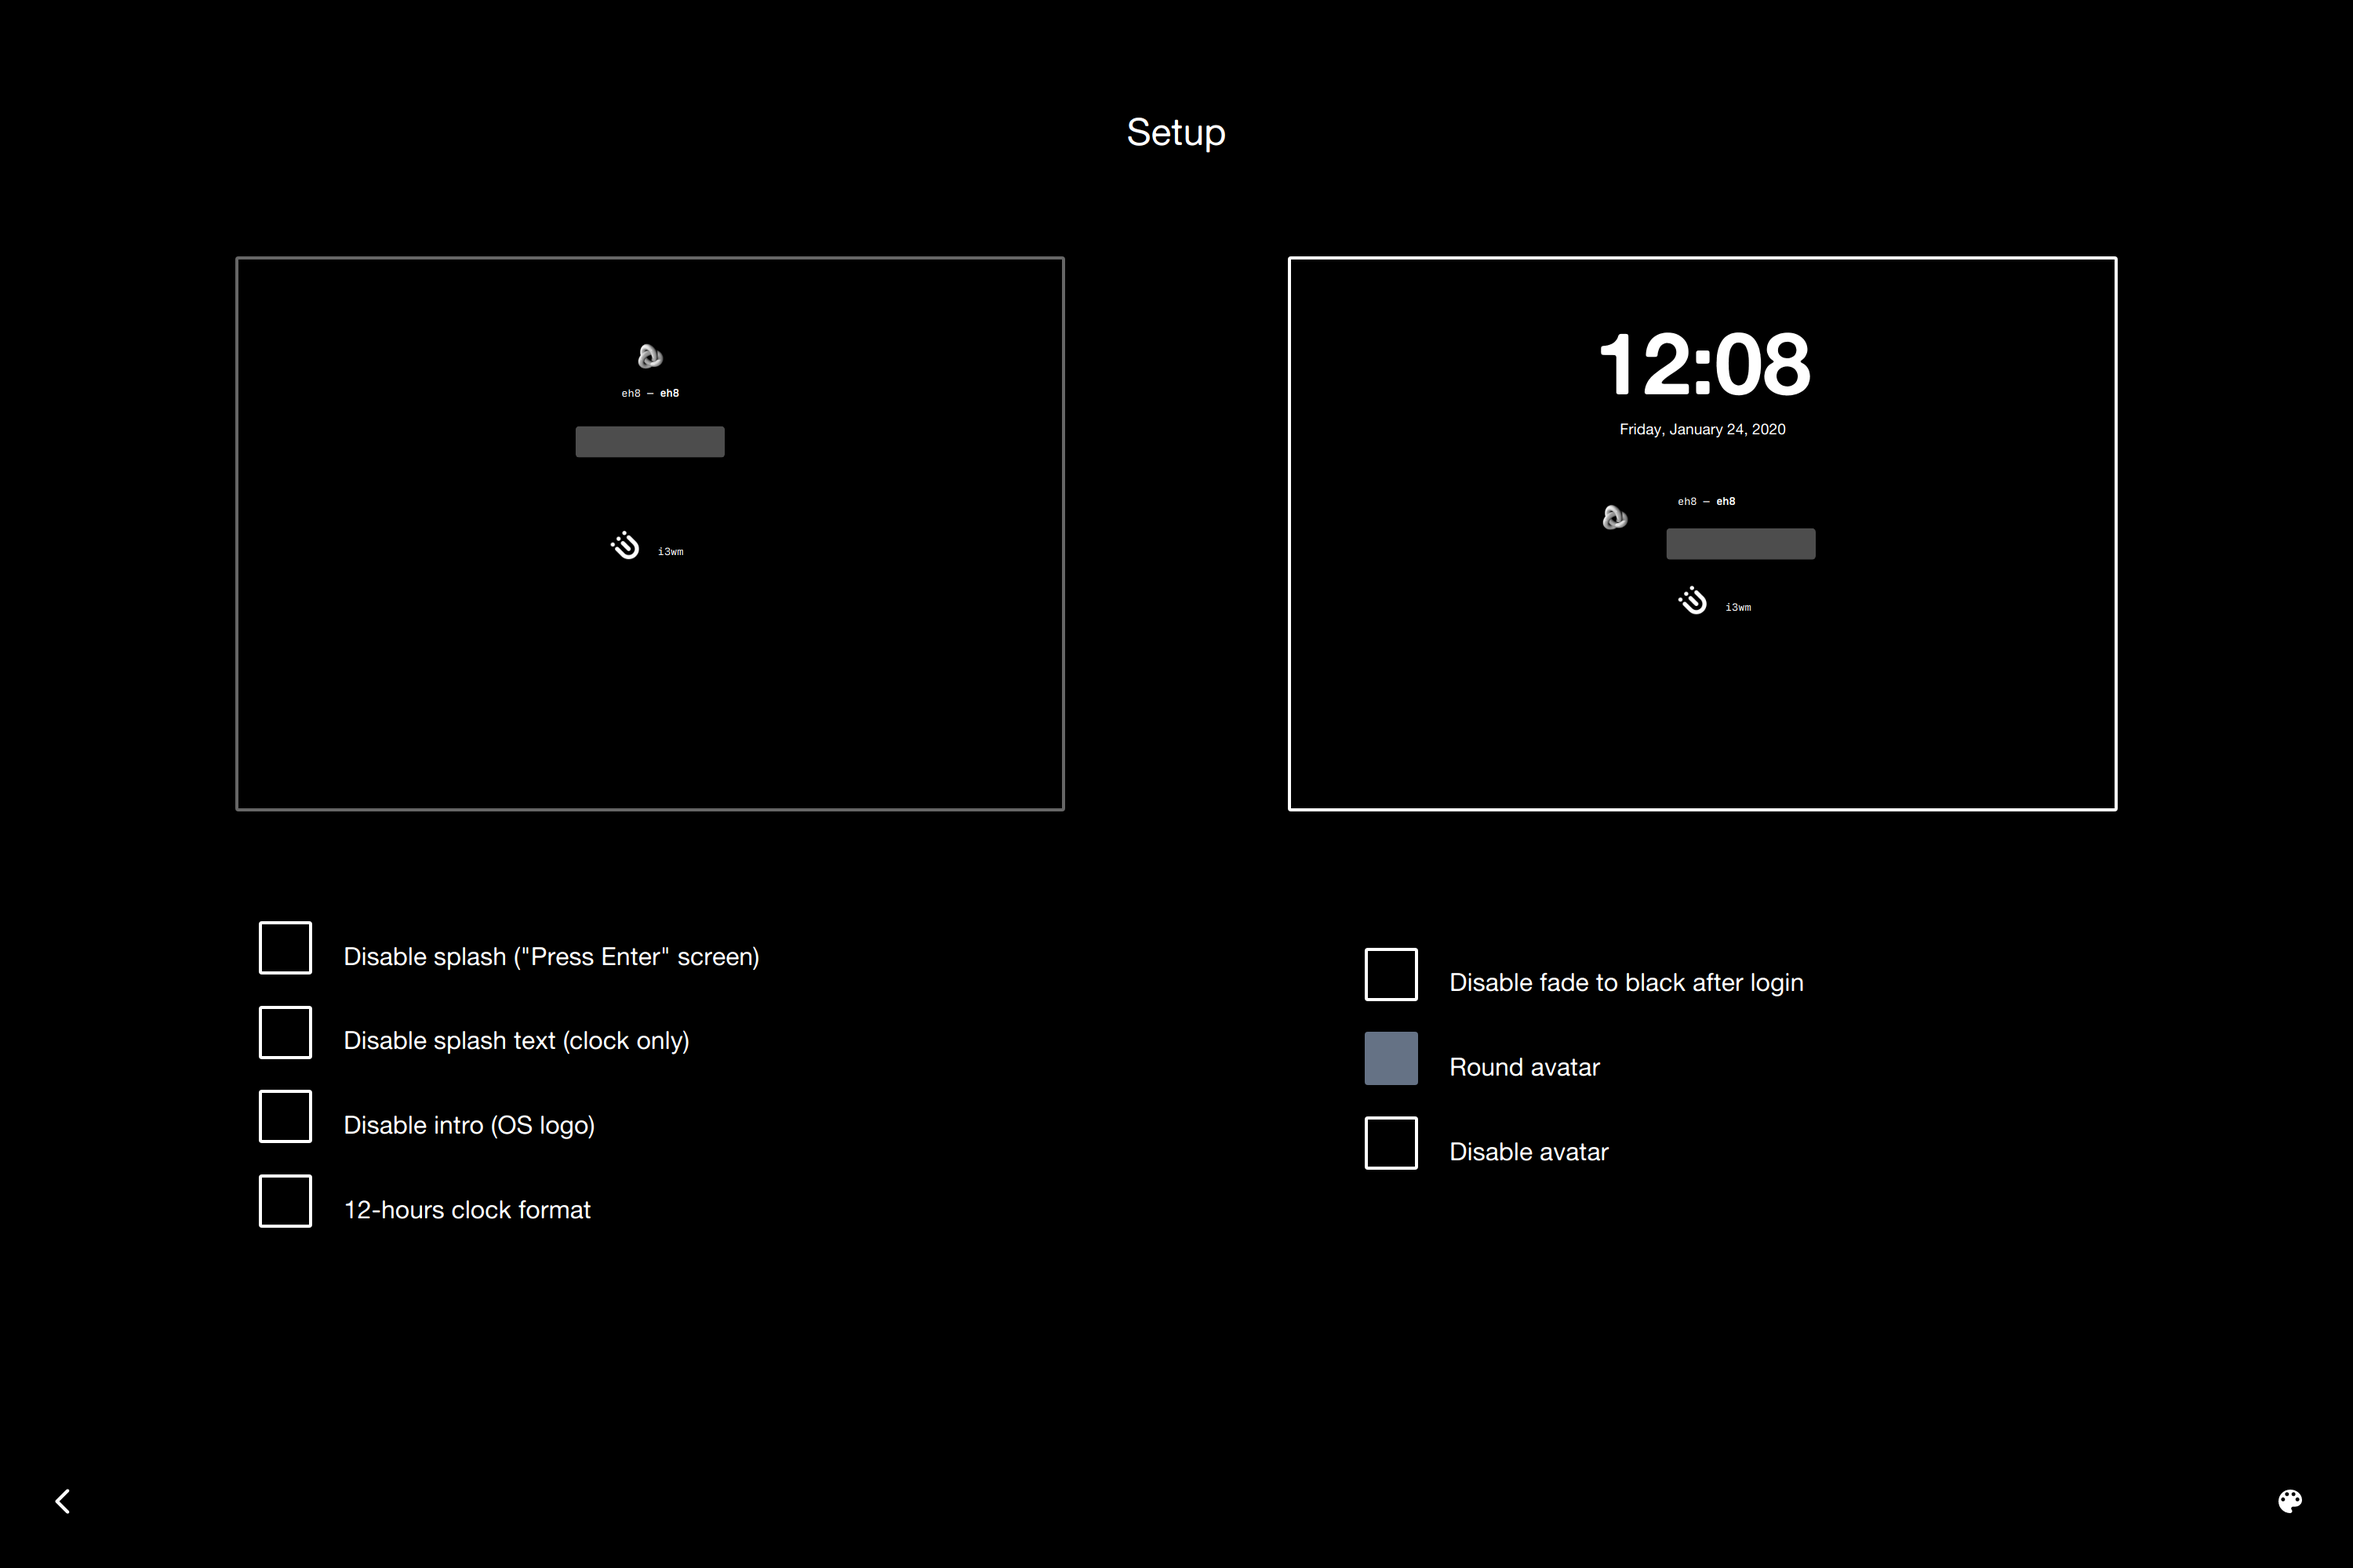
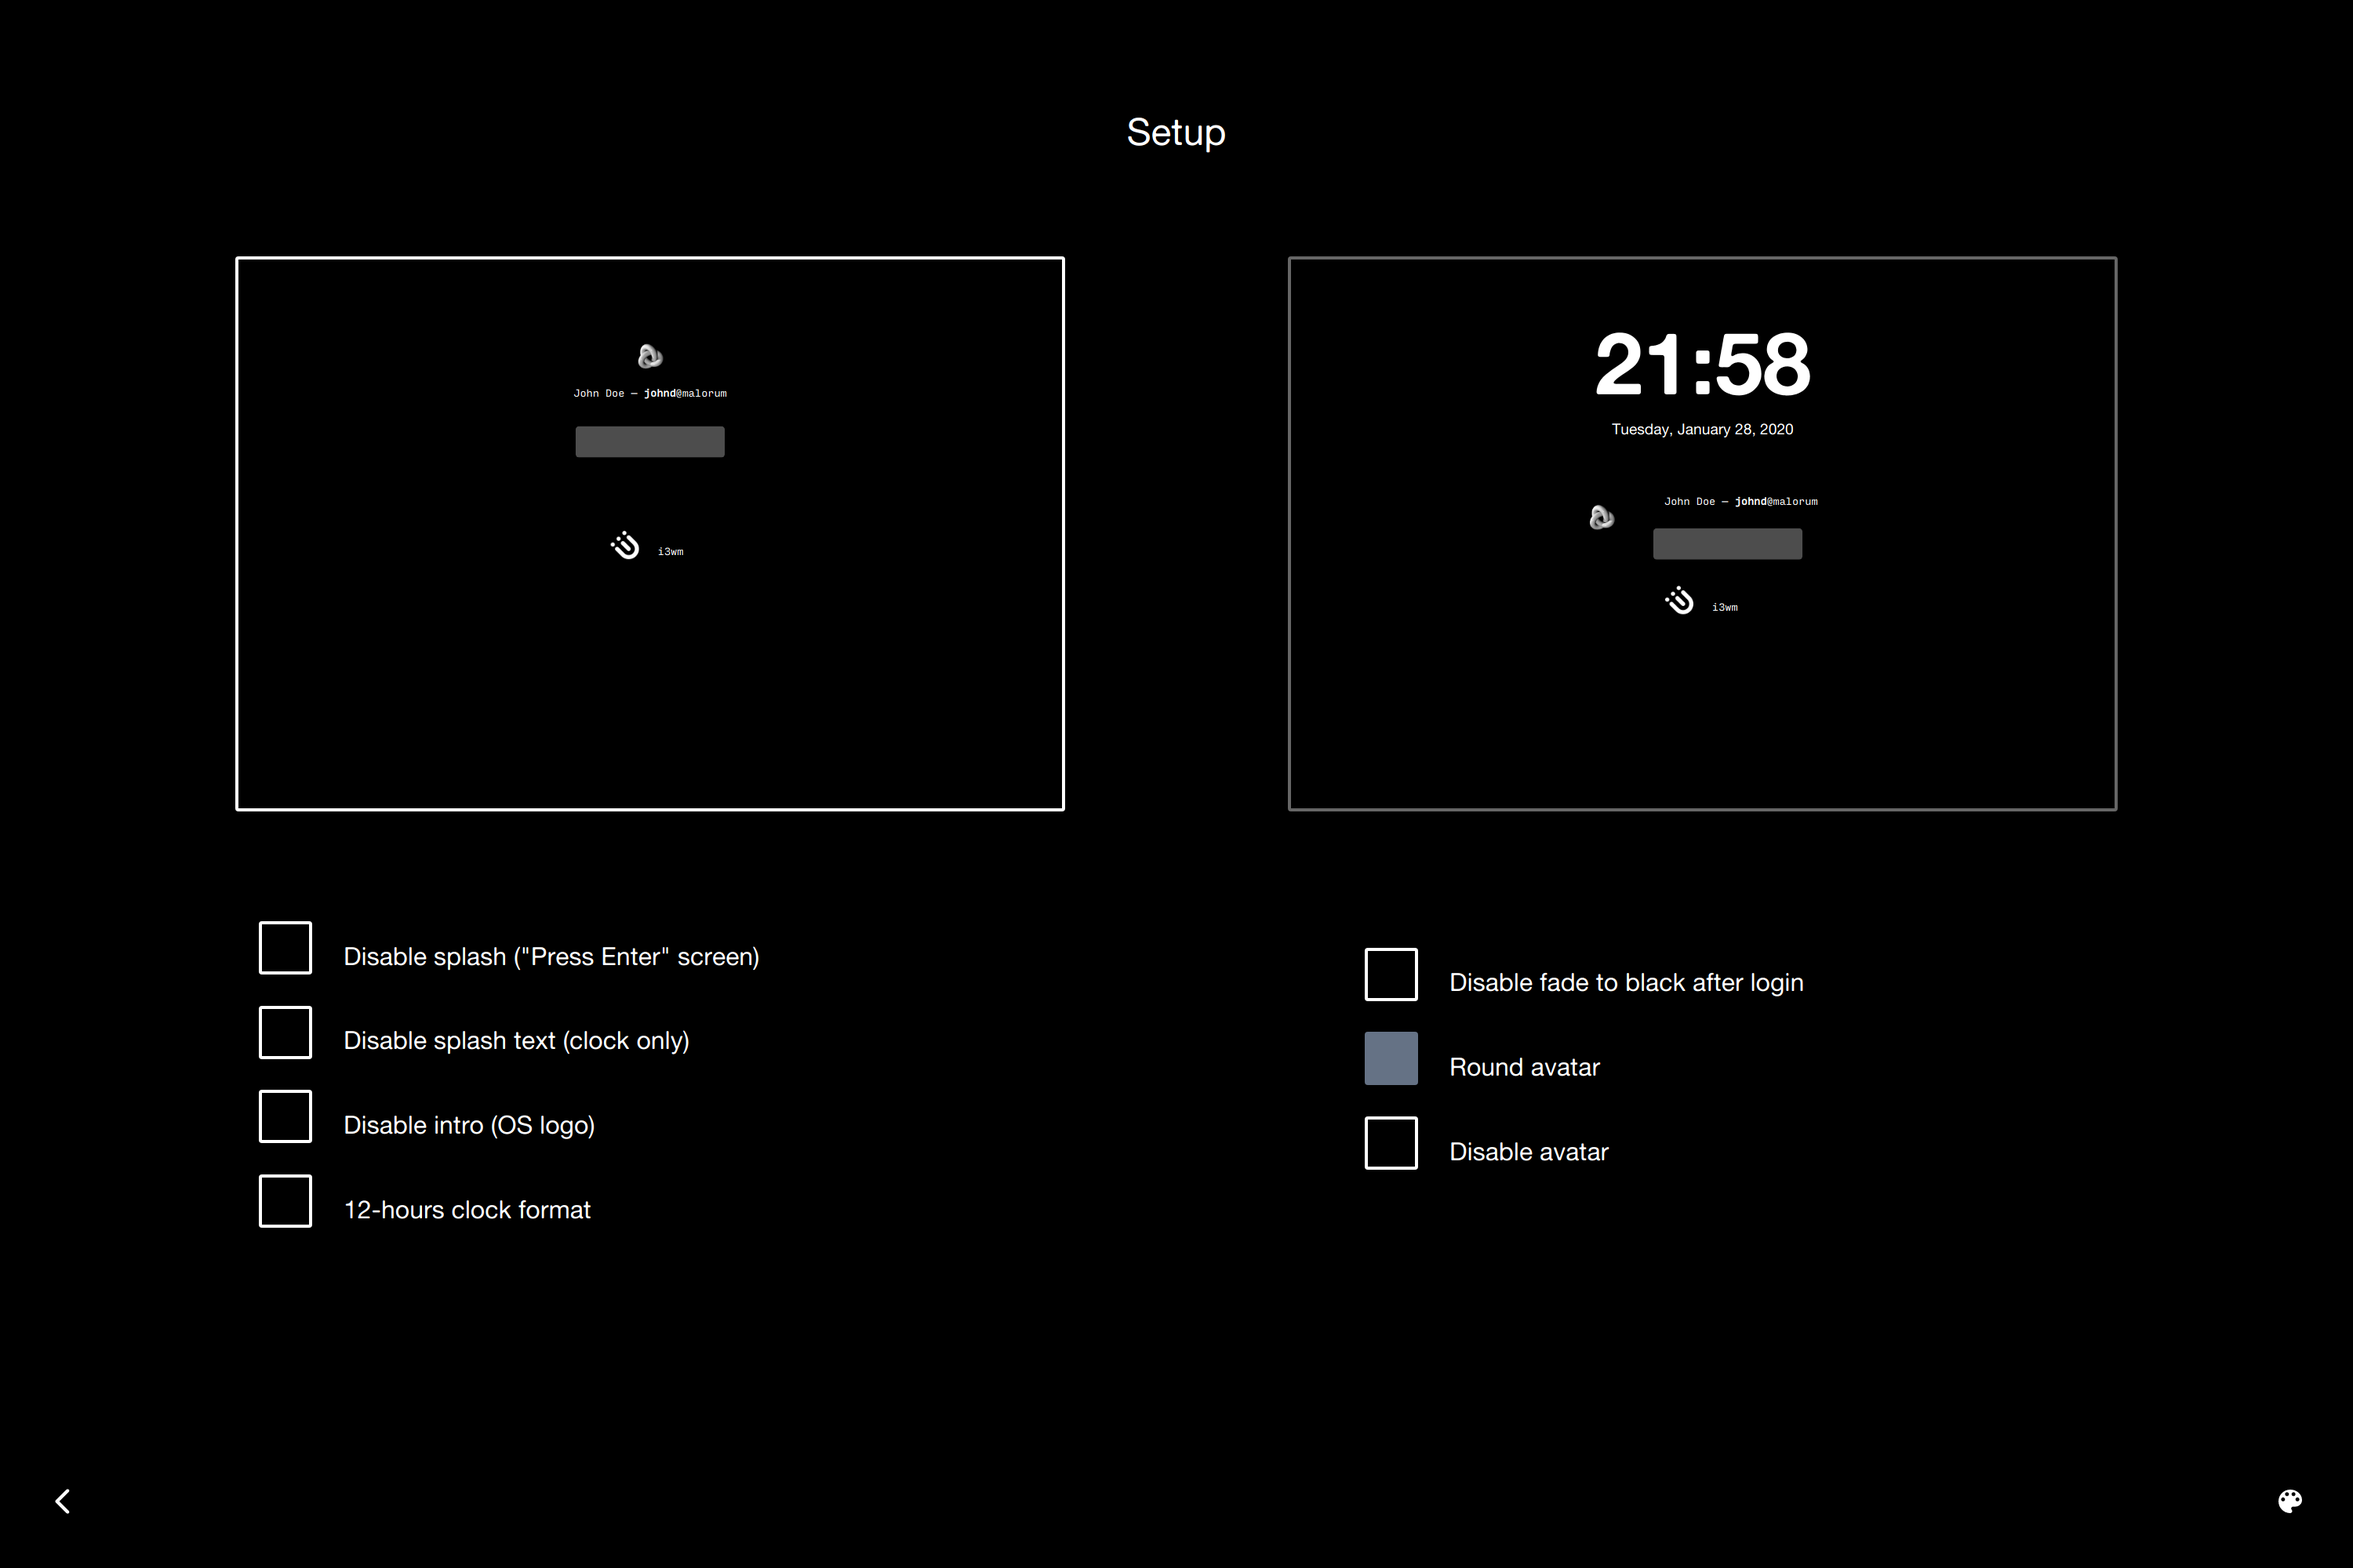
Fix clock, add BSPWM

Changed region(s): [[0.682, 0.217, 0.744, 0.279], [0.682, 0.31, 0.775, 0.341], [0.713, 0.372, 0.744, 0.403]]

diff --git a/src/themer.js b/src/themer.js
@@ -1,10 +1,26 @@
 import { settings } from './settings';
 
 export const DEFAULT_COLOR = '#657285';
-const DEFAULT_BG = {
-    default: require('./assets/images/wallpapers/background.png'),
-    blurred: require('./assets/images/wallpapers/blurred/background.png')
-};
+
+const wall_dir = './assets/images/wallpapers';
+const require_wallpaper = wallpaper => ({
+    default: require(`${wall_dir}/${wallpaper}`),
+    blurred: require(`${wall_dir}/blurred/${wallpaper}`)
+});
+
+const DEFAULT_NAMES = [
+    'background.png',
+    '1532564867739.png', '1579652499063.jpg',
+    'EJ2tvsICil0.jpg', '1532575538303.jpg',
+    'Solid_Aqua_Graphite.png'
+];
+
+const DEFAULT_WALLPAPERS = DEFAULT_NAMES.map(require_wallpaper);
+
+const unique_objects = _ =>
+    _.map(JSON.stringify)
+        .filter((e, i, self) => self.indexOf(e) === i)
+        .map(JSON.parse);
 
 export let color = localStorage.getItem('color') || DEFAULT_COLOR;
 export let background = getBackground();
@@ -47,7 +63,10 @@ export function backgrounds() {
     };
 
     let result = dirlist(greeter_config.branding.background_images);
-    return [DEFAULT_BG, ...result];
+    return unique_objects([
+        ...DEFAULT_WALLPAPERS,
+        ...result
+    ]);
 }
 
 function getBackground() {
@@ -57,7 +76,7 @@ function getBackground() {
     }
 
     if (!localStorage.getItem('background'))
-        return DEFAULT_BG;
+        return DEFAULT_WALLPAPERS[0];
     return {
         default: localStorage.getItem('background'),
         blurred: localStorage.getItem('background_blurred')

diff --git a/src/components/SelectItem.vue b/src/components/SelectItem.vue
@@ -47,6 +47,8 @@ export default {
                     icon = "kde";
                 } else if (key.indexOf("gnome") > -1) {
                     icon = "gnome";
+                } else if (key.indexOf("bspwm") > -1) {
+                    icon = "bspwm";
                 } else if (key.indexOf("xfce") > -1) {
                     icon = "xfce";
                 } else if (key.indexOf("unity") > -1 || key.indexOf("ubuntu") > -1) {

diff --git a/src/components/Clock.vue b/src/components/Clock.vue
@@ -1,9 +1,6 @@
 <template>
     <div class="clock" :class="{ 'small': small }">
-        <span id="hours">
-            {{ part !== '' ? hours : $options.filters.pad(hours) }}
-        </span>
-        :{{ minutes | pad }}
+        <span id="hours">{{ part !== '' ? hours : $options.filters.pad(hours) }}</span>:{{ minutes | pad }}
         <span id="part">{{ part }}</span>
 
         <div id="date">

diff --git a/src/lightdm.js b/src/lightdm.js
@@ -37,8 +37,8 @@ if (window.lightdm_debug) {
                 key: 'xfce'
             },
             {
-                name: 'Cinnamon',
-                key: 'cinnamon'
+                name: 'BSPWM',
+                key: 'bspwm'
             },
             {
                 name: 'i3wm',

diff --git a/README.md b/README.md
@@ -12,8 +12,10 @@
   * [Screenshots](#screenshots)
     + [Splash Screen](#splash-screen)
     + [Login Screen](#login-screen)
+    + [Login Screen with Virtual Keyboard](#login-screen-with-virtual-keyboard)
     + [Login Screen with Clock](#login-screen-with-clock)
     + [Settings Screen](#settings-screen)
+    + [Theming Screen](#theming-screen)
 
 ## Installation
 
@@ -65,16 +67,24 @@ A live preview of what your greeter may look like may be viewed by either:
 
 ### Splash Screen
 
-![splash](https://github.com/Demonstrandum/Saluto/blob/master/demo/splash.png?raw=true)
+![splash](demo/splash.png)
 
 ### Login Screen
 
-![login](https://github.com/Demonstrandum/Saluto/blob/master/demo/login.png?raw=true)
+![login](demo/login.png)
+
+### Login Screen with Virtual Keyboard
+
+![login-keyboard](demo/login-keyboard.png)
 
 ### Login Screen with Clock
 
-![login-with-clock](https://github.com/Demonstrandum/lightdm-eh8/blob/master/demo/login-clock.png?raw=true)
+![login-clock](demo/login-clock.png)
 
 ### Settings Screen
 
-![settings](https://github.com/Demonstrandum/Saluto/blob/master/demo/settings.png?raw=true)
+![settings](demo/settings.png)
+
+### Theming Screen
+
+![theming](demo/theming.png)
